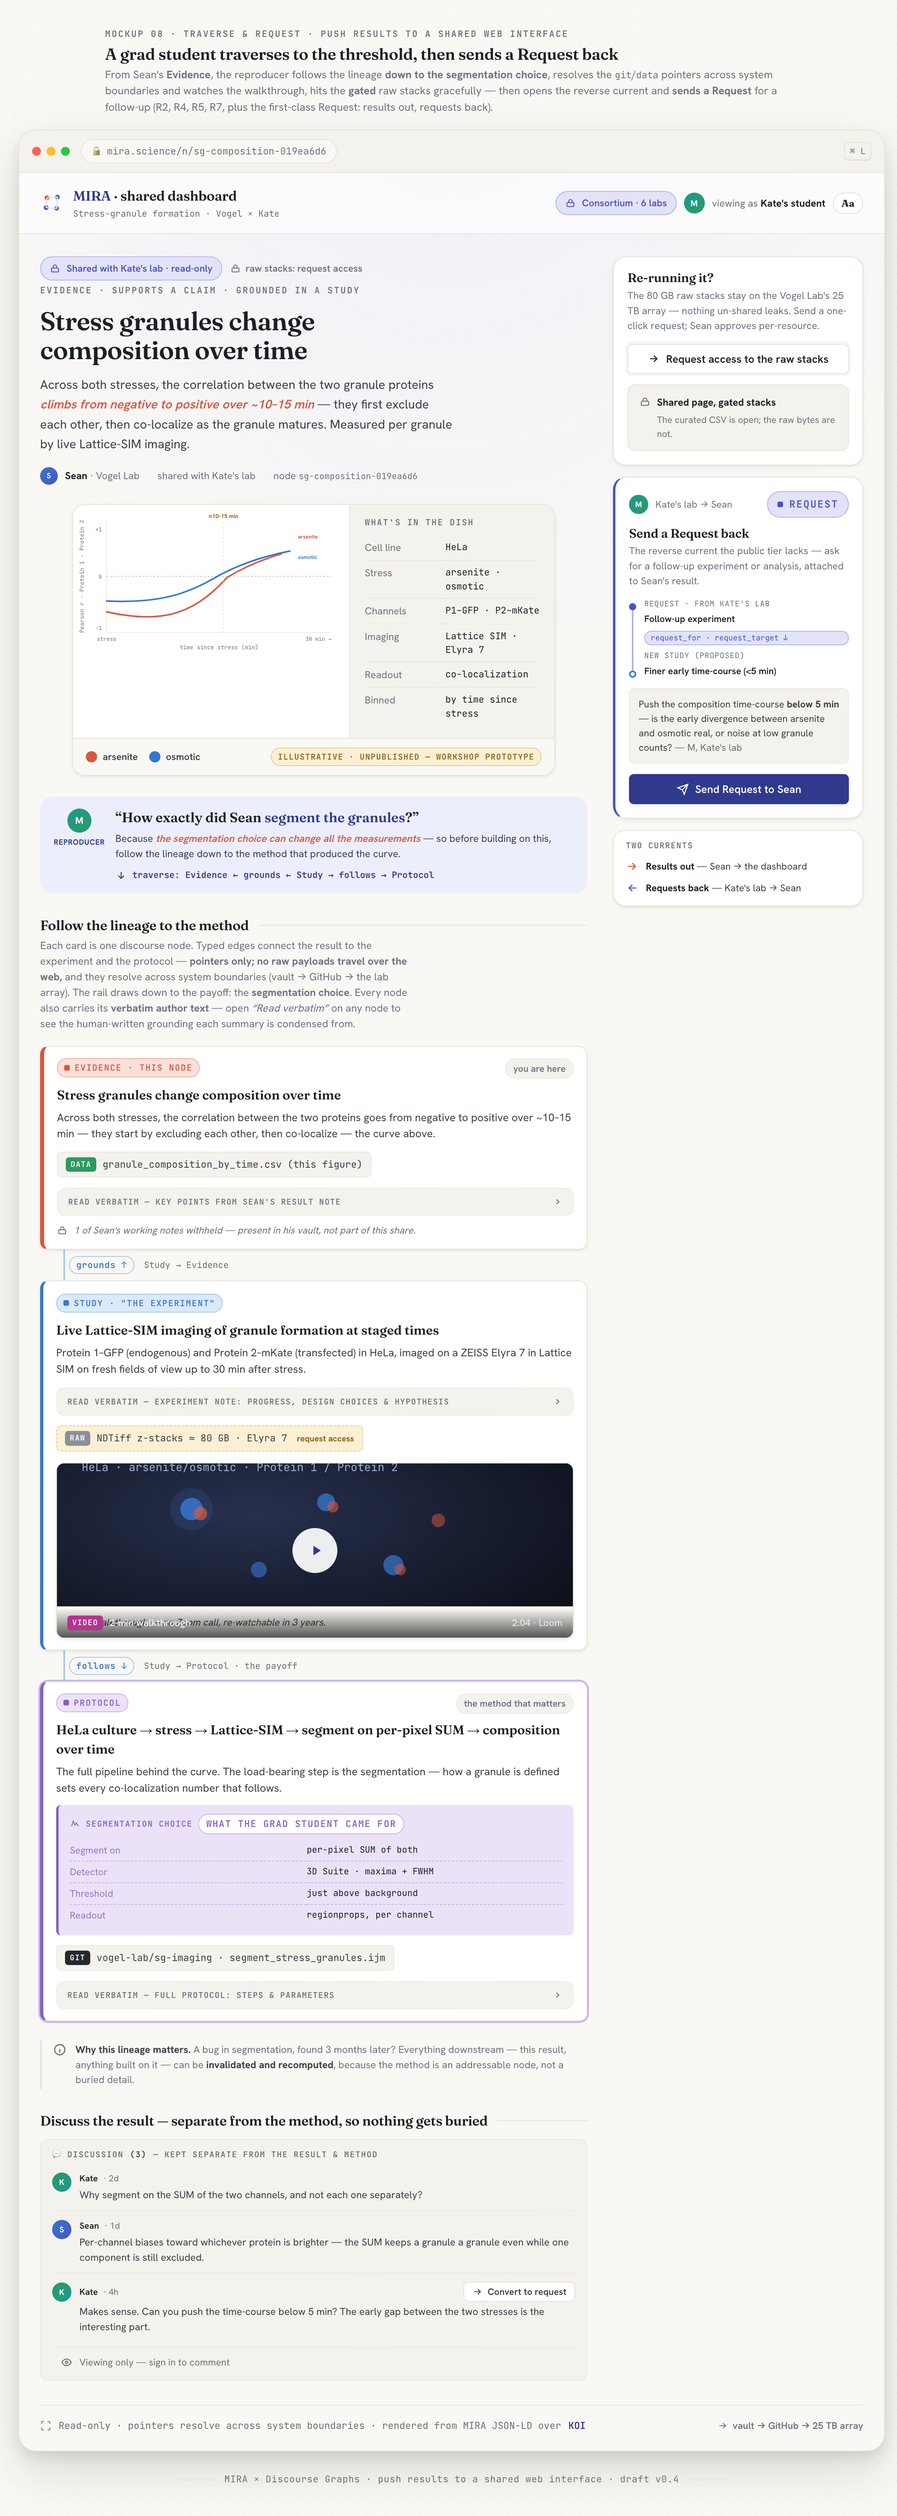
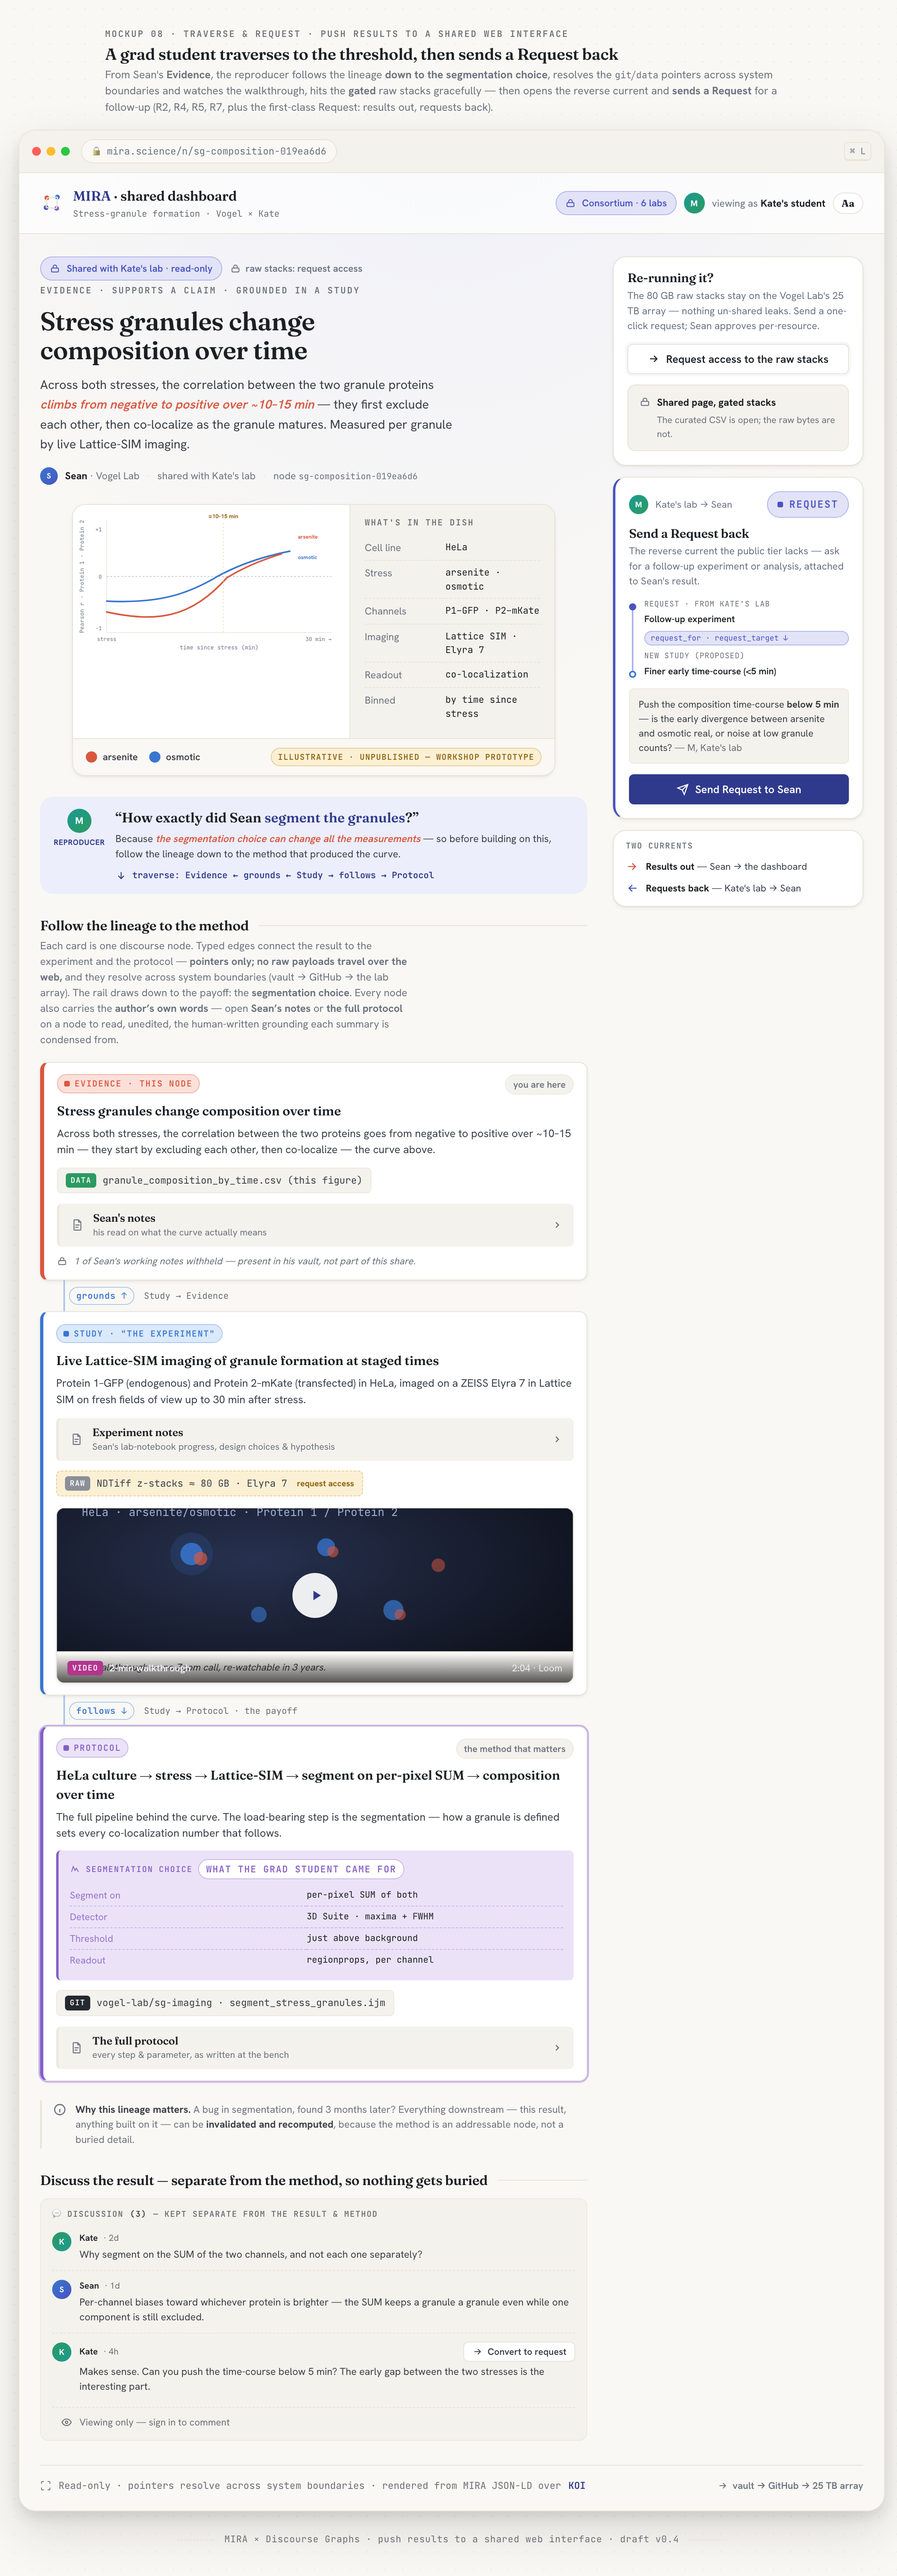
mockups(08): relabel "Read verbatim" expanders to plain human openers
The per-node grounding expanders on screen 08 (added in 5aefb32) were
labelled "Read verbatim — ...", which named the access mode rather than the
content and read as a cryptic debug toggle — easy to miss. Relabel + restyle
so each reads as an inviting, self-explanatory note.

- Relabel all three to plain, human openers, each with a one-line descriptor
  and a document icon:
    Evidence → "Sean's notes" — his read on what the curve actually means
    Study    → "Experiment notes" — lab-notebook progress, choices & hypothesis
    Protocol → "The full protocol" — every step & parameter, as written
- Restyle to the page's own inset idiom (.threshold-detail): drop the dashed
  border for a 3px left accent + r-sm radius on a neutral surface-2 fill —
  kept quieter than the colour-washed payoff inset so the hierarchy holds. The
  summary is now a real two-line "open me" affordance, not uppercase mono.
- The intro line and the 07 → 08 cross-link lose the jargon "verbatim"; the
  honest .vsrc provenance footer ("Verbatim · RES node · ...redacted") stays.
- Specs synced: real-data §4 gets a refinement note; glance-trust spec's
  example labels updated (the verbatim requirement itself is unchanged).
- 08 preview regenerated at 2x; tokens.css / components.css unchanged;
  the discourse-graph/ KOI workstream stays excluded.

diff --git a/artifacts/mockups/08-traverse-and-request.html b/artifacts/mockups/08-traverse-and-request.html
@@ -204,16 +204,26 @@
   .buildline svg { width:14px; height:14px; stroke: var(--faint); fill:none; stroke-width:1.8; }
   .buildline b { color: var(--brand); font-weight:600; }
 
-  /* ---- Verbatim node content — the human-authored ground truth, on demand --- */
-  /* Cards are summaries; this opens the actual author text each summary derives from. */
-  .verbatim { margin-top:13px; border:1px dashed var(--line-2); border-radius: var(--r-md); background: var(--surface-2); overflow:hidden; }
-  .verbatim > summary { list-style:none; cursor:pointer; display:flex; align-items:center; gap:8px; padding:9px 13px;
-    font-family: var(--font-mono); font-size:10px; letter-spacing:.08em; text-transform:uppercase; color: var(--muted); font-weight:700; }
+  /* ---- The author's own words — the human-written ground truth, on demand --- */
+  /* Each card is a summary; this opens the actual author text it was condensed from. */
+  /* Same inset idiom as .threshold-detail (left accent + r-sm), kept quieter:    */
+  /* neutral fill not a colored wash, so the payoff inset stays the loudest one.  */
+  .verbatim { margin-top:13px; border:0; border-left:3px solid var(--line-2); border-radius: var(--r-sm);
+    background: var(--surface-2); overflow:hidden; transition: border-color .2s var(--ease); }
+  .verbatim:hover, .verbatim[open] { border-left-color: var(--muted); }
+  .verbatim > summary { list-style:none; cursor:pointer; display:flex; align-items:center; gap:11px; padding:10px 14px; }
   .verbatim > summary::-webkit-details-marker { display:none; }
-  .verbatim > summary:hover { background: var(--surface); color: var(--ink-2); }
-  .verbatim > summary .vchev { width:12px; height:12px; stroke:currentColor; fill:none; stroke-width:2.4; margin-left:auto; transition: transform .2s var(--ease); }
+  .verbatim > summary:hover { background: var(--surface); }
+  .verbatim .vicon { width:17px; height:17px; stroke: var(--muted); fill:none; stroke-width:1.7;
+    stroke-linecap:round; stroke-linejoin:round; flex:none; transition: stroke .2s var(--ease); }
+  .verbatim[open] .vicon, .verbatim > summary:hover .vicon { stroke: var(--ink-2); }
+  .verbatim .vlabel { display:flex; flex-direction:column; gap:2px; min-width:0; }
+  .verbatim .vlabel b { font-family: var(--font-display); font-size:13.5px; font-weight:600; color: var(--ink); letter-spacing:-.01em; line-height:1.2; }
+  .verbatim .vlabel span { font-size:11.5px; color: var(--muted); line-height:1.3; }
+  .verbatim .vchev { width:13px; height:13px; stroke: var(--faint); fill:none; stroke-width:2.4; flex:none; margin-left:auto; transition: transform .2s var(--ease), stroke .2s var(--ease); }
   .verbatim[open] > summary .vchev { transform: rotate(90deg); }
-  .verbatim .vbody { padding:2px 15px 14px; font-size:12.5px; color: var(--ink-2); line-height:1.55; animation: rise .3s var(--ease-out); }
+  .verbatim > summary:hover .vchev { stroke: var(--muted); }
+  .verbatim .vbody { padding:4px 16px 15px; font-size:12.5px; color: var(--ink-2); line-height:1.55; animation: rise .3s var(--ease-out); }
   .verbatim .vbody h6 { font-family: var(--font-display); font-size:12.5px; color: var(--ink); margin:13px 0 5px; }
   .verbatim .vbody p { margin:7px 0; }
   .verbatim .vbody ul, .verbatim .vbody ol { margin:7px 0; padding-left:20px; }
@@ -441,8 +451,8 @@
           Each card is one discourse node. Typed edges connect the result to the experiment and the protocol —
           <b>pointers only; no raw payloads travel over the web,</b> and they resolve across system boundaries
           (vault → GitHub → the lab array). The rail draws down to the payoff: the <b>segmentation choice</b>.
-          Every node also carries its <b>verbatim author text</b> — open <i>“Read verbatim”</i> on any node to see the
-          human-written grounding each summary is condensed from.
+          Every node also carries the <b>author’s own words</b> — open <b>Sean’s notes</b> or <b>the full protocol</b>
+          on a node to read, unedited, the human-written grounding each summary is condensed from.
         </p>
 
         <div class="chain">
@@ -460,7 +470,11 @@
             </div>
             <!-- verbatim grounding: the author's own key points, the summary is condensed from these -->
             <details class="verbatim">
-              <summary>Read verbatim — key points from Sean's result note <svg class="vchev" viewBox="0 0 24 24"><path d="M9 6l6 6-6 6"/></svg></summary>
+              <summary>
+                <svg class="vicon" viewBox="0 0 24 24"><path d="M14 3H7a1 1 0 0 0-1 1v16a1 1 0 0 0 1 1h10a1 1 0 0 0 1-1V7z"/><path d="M14 3v4h4"/><path d="M9 12h6M9 16h4"/></svg>
+                <span class="vlabel"><b>Sean's notes</b><span>his read on what the curve actually means</span></span>
+                <svg class="vchev" viewBox="0 0 24 24"><path d="M9 6l6 6-6 6"/></svg>
+              </summary>
               <div class="vbody">
                 <ul>
                   <li>In both conditions, the Pearson correlation coefficient between the two channels starts negative and becomes positive over time. This implies that the two tagged proteins (Protein 1 and Protein 2) are co-localizing more over time and they even start to coalesce independently of each other in the beginning.</li>
@@ -490,7 +504,11 @@
             <div class="node-body">Protein 1–GFP (endogenous) and Protein 2–mKate (transfected) in HeLa, imaged on a ZEISS Elyra 7 in Lattice SIM on fresh fields of view up to 30 min after stress.</div>
             <!-- verbatim grounding: the author's dated lab-notebook note + hypotheses -->
             <details class="verbatim">
-              <summary>Read verbatim — experiment note: progress, design choices &amp; hypothesis <svg class="vchev" viewBox="0 0 24 24"><path d="M9 6l6 6-6 6"/></svg></summary>
+              <summary>
+                <svg class="vicon" viewBox="0 0 24 24"><path d="M14 3H7a1 1 0 0 0-1 1v16a1 1 0 0 0 1 1h10a1 1 0 0 0 1-1V7z"/><path d="M14 3v4h4"/><path d="M9 12h6M9 16h4"/></svg>
+                <span class="vlabel"><b>Experiment notes</b><span>Sean's lab-notebook progress, design choices &amp; hypothesis</span></span>
+                <svg class="vchev" viewBox="0 0 24 24"><path d="M9 6l6 6-6 6"/></svg>
+              </summary>
               <div class="vbody">
                 <h6>Progress &amp; notes</h6>
                 <p><span class="vdate">2025-08-23</span> — Kate's student visited Montreal and they sent their cells ahead of time. Khalid is maintaining the cell culture using their protocol. (See linked protocol node.) This cell line has Protein 1 tagged with GFP and we will transfect it with a plasmid expressing Protein 2-mKate. Applied the stress to the cells and imaged them on the microscope to measure the rate/amount/coordination of the two proteins forming stress granules.</p>
@@ -577,7 +595,11 @@
 
             <!-- verbatim grounding: the three protocol nodes the Study follows, in full -->
             <details class="verbatim">
-              <summary>Read verbatim — full protocol: steps &amp; parameters <svg class="vchev" viewBox="0 0 24 24"><path d="M9 6l6 6-6 6"/></svg></summary>
+              <summary>
+                <svg class="vicon" viewBox="0 0 24 24"><path d="M14 3H7a1 1 0 0 0-1 1v16a1 1 0 0 0 1 1h10a1 1 0 0 0 1-1V7z"/><path d="M14 3v4h4"/><path d="M9 12h6M9 16h4"/></svg>
+                <span class="vlabel"><b>The full protocol</b><span>every step &amp; parameter, as written at the bench</span></span>
+                <svg class="vchev" viewBox="0 0 24 24"><path d="M9 6l6 6-6 6"/></svg>
+              </summary>
               <div class="vbody">
                 <p>The pipeline summary above is condensed from three protocol nodes the Study <code>follows</code>. Their verbatim text:</p>
 

diff --git a/artifacts/mockups/07-shared-dashboard.html b/artifacts/mockups/07-shared-dashboard.html
@@ -541,7 +541,7 @@
                 </div>
                 <a class="studyx-verbatim" href="08-traverse-and-request.html#verbatim">
                   <svg viewBox="0 0 24 24" aria-hidden="true"><path d="M4 19.5A2.5 2.5 0 0 1 6.5 17H20M4 4.5A2.5 2.5 0 0 1 6.5 2H20v20H6.5A2.5 2.5 0 0 1 4 19.5z"/></svg>
-                  Read the full study &amp; protocol, verbatim →
+                  Read the full study &amp; protocol →
                 </a>
               </div>
             </details>

diff --git a/artifacts/ux-spec-update-2026-06-15-glance-trust-and-verbatim.md b/artifacts/ux-spec-update-2026-06-15-glance-trust-and-verbatim.md
@@ -36,7 +36,7 @@ belong in the spec, not the rendered screen.)
 **Promote** the existing `<details class="ecard__method">` from a low-key "Method & context" to the **primary
 affordance of this region**: a clearly-labelled, obviously-expandable **"How it was done — study & protocol"**
 collapse/open, sitting where the endorse block was, with a direct path to the verbatim grounding
-(**"Read the full study & protocol, verbatim →"** → screen 08).
+(**"Read the full study & protocol →"** → screen 08).
 
 Net: the PI glances and is done; opening the study is one obvious, in-place click — and no action is implied
 that isn't real.
@@ -47,7 +47,7 @@ that isn't real.
 summary derives from**, and it must be available when a reader clicks into a Study or Protocol — not paraphrased
 away. Today screen 08 shows only derived summaries (a 2-sentence study blurb; a 4-row "segmentation choice"
 table). The verbatim content already exists in `discourse-graph/*.md` and must be surfaced, summary-first /
-**verbatim-on-demand** (e.g. a "Read verbatim" collapsible under each node):
+**verbatim-on-demand** (a per-node collapsible, opened by a plain human label — "Sean's notes" / "Experiment notes" / "The full protocol" — not a cryptic "Read verbatim"):
 
 | Node | Verbatim source (`discourse-graph/`) | What must be reachable |
 |---|---|---|

diff --git a/artifacts/ux-spec-update-2026-06-15-real-data-and-ui.md b/artifacts/ux-spec-update-2026-06-15-real-data-and-ui.md
@@ -146,7 +146,13 @@ marks the request-back card (same "left border = node type" language as the chai
 The explanatory `.why` aside and the gated-stacks note were **quieted to plain notes**
 (no wash), the framing prompt lost its border and its auto-animating arrow, and the payoff
 node's double shadow became a single ring. Net: from five competing coloured boxes to a
-clear hierarchy.
+clear hierarchy. **Later same-day refinement:** the per-node grounding expanders were relabelled
+from the cryptic *"Read verbatim"* to plain, human openers — **Sean's notes** · **Experiment
+notes** · **The full protocol**, each with a one-line descriptor and a document icon — and
+restyled to the page's own inset idiom (left accent + `--r-sm`, neutral fill, no dashed border)
+so each reads as an inviting "open me" note rather than a debug toggle, while staying quieter than
+the colour-washed payoff inset. The 07 → 08 cross-link lost its trailing ", verbatim" for the same
+reason; the honest `.vsrc` provenance footer ("Verbatim · … · protein names redacted") stays.
 
 **10 — removed the card-anatomy strip.** The region-map callout was design documentation;
 it belongs in this spec, not in the rendered mockup. (Same principle as the 11 v0.4 change.)
